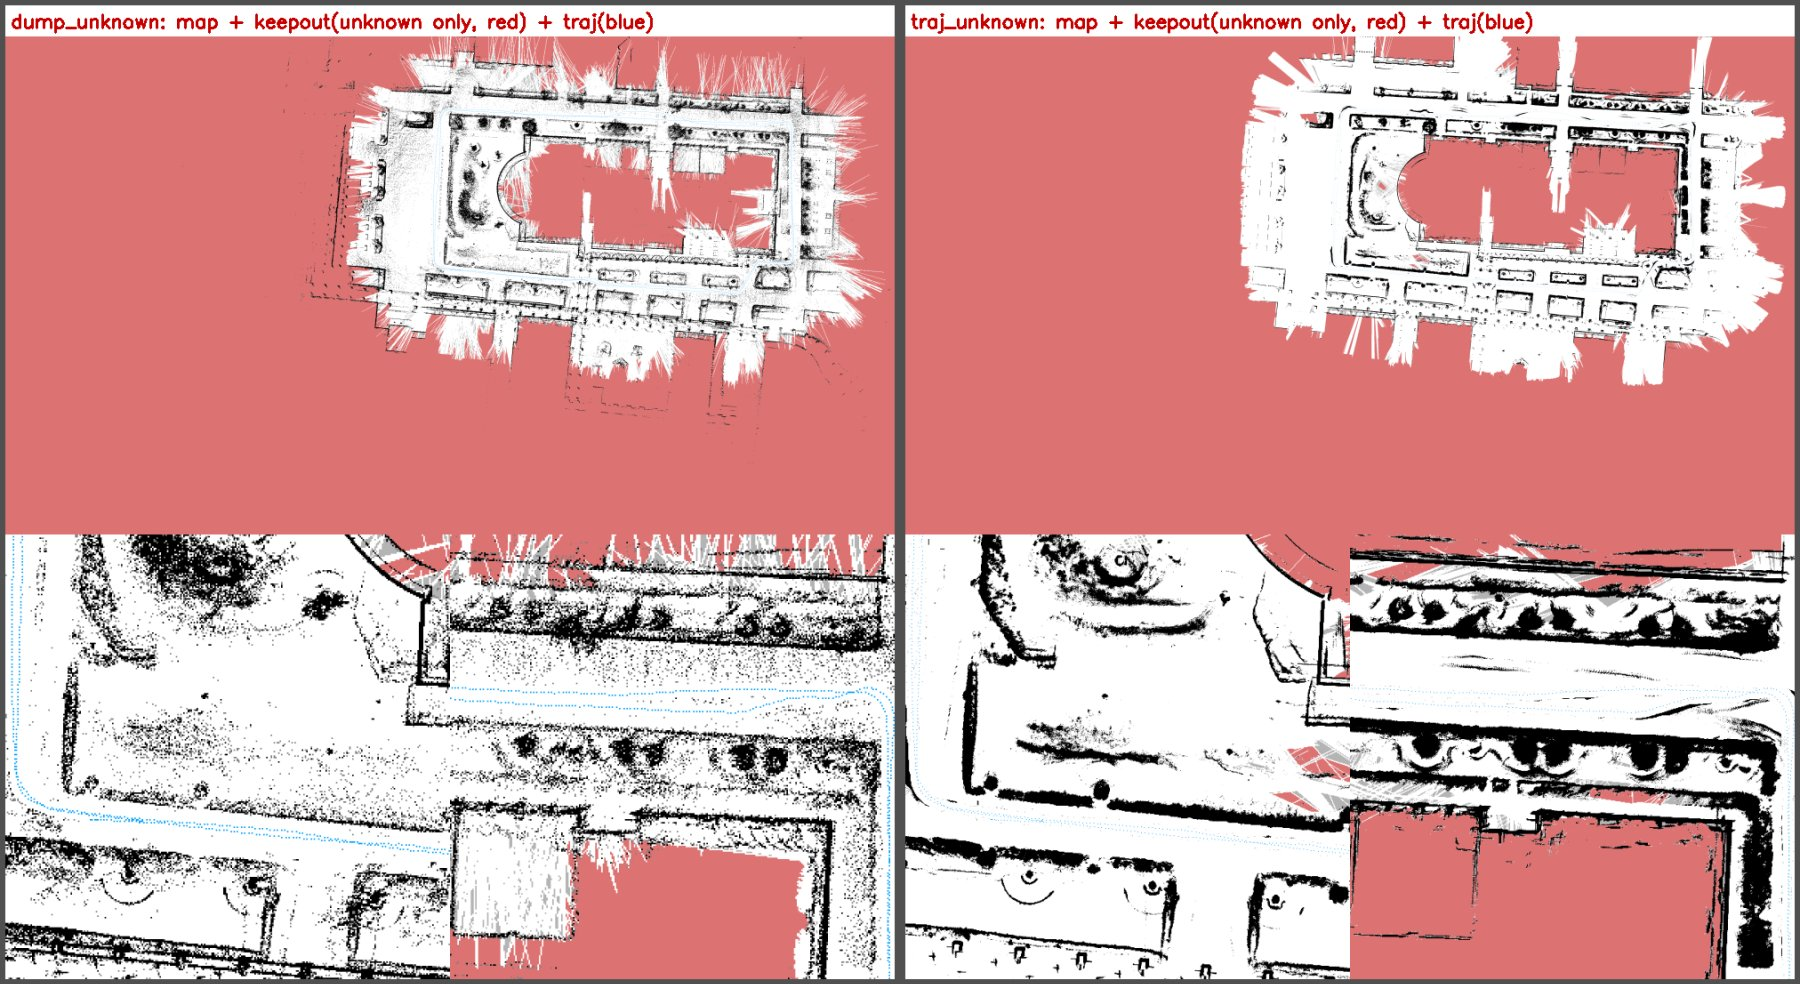
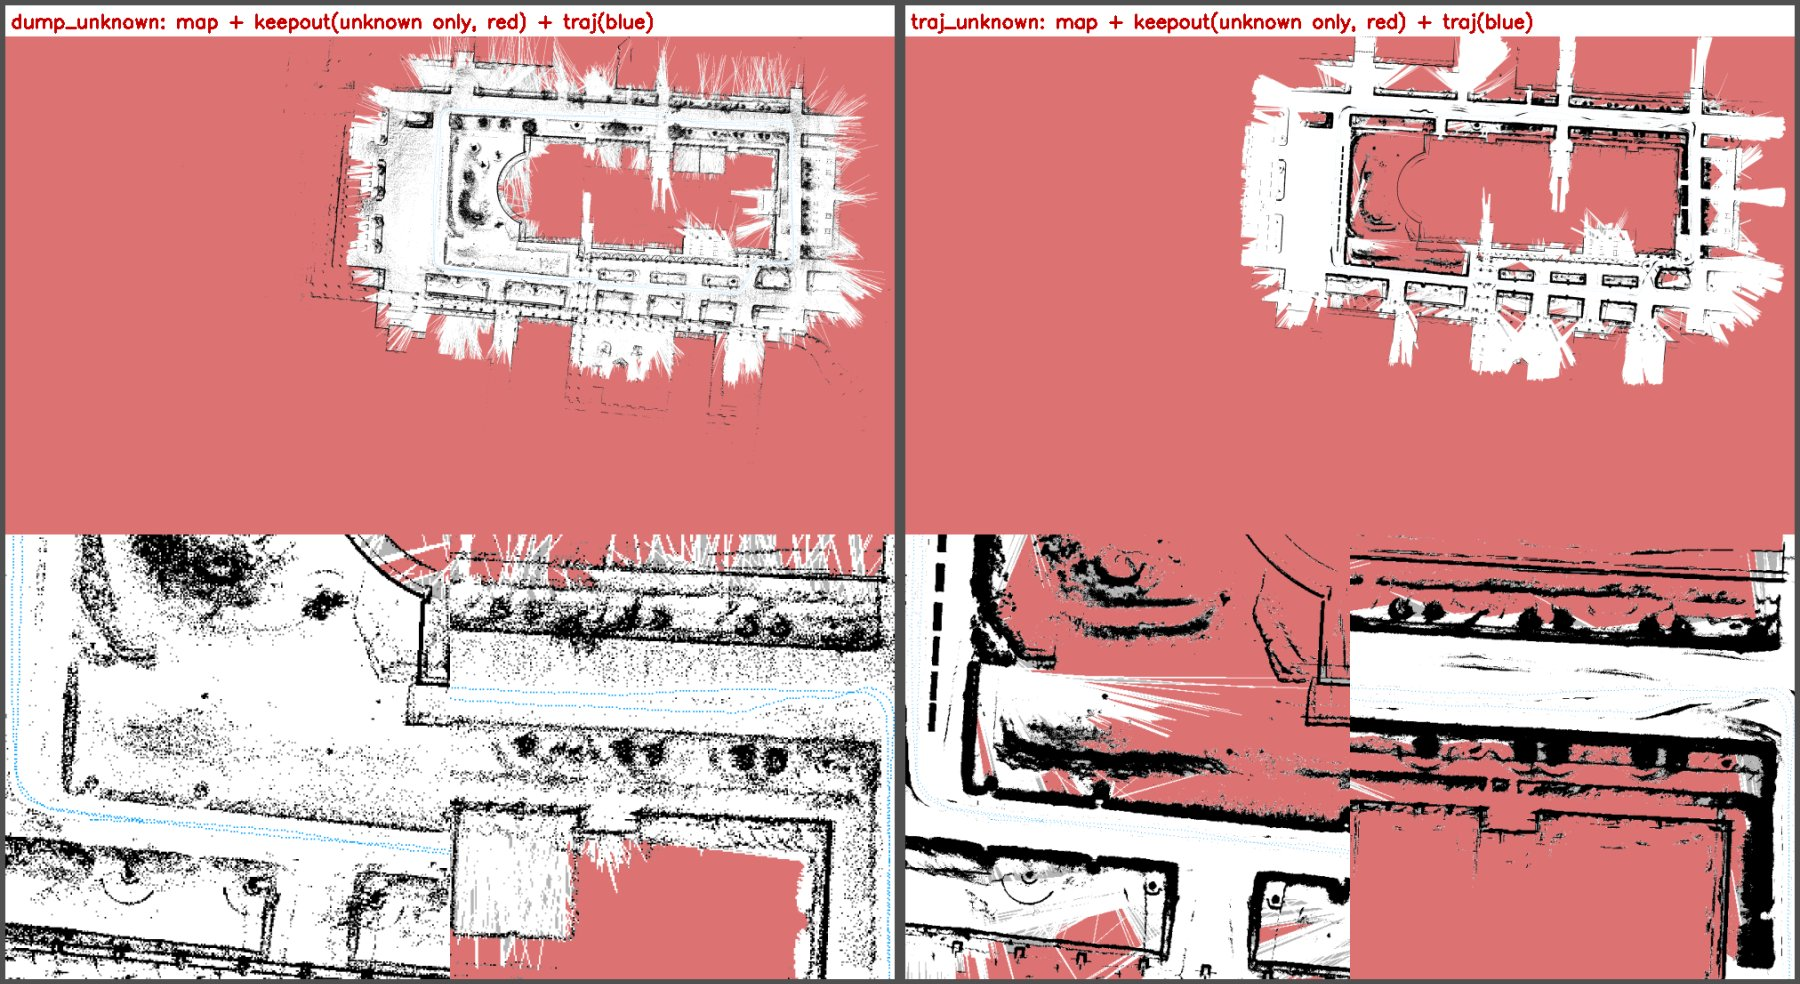
feat: Update documentation and tools for 2D map processing, including base_link height adjustments and keepout generation

Changed region(s): [[0.4978, 0.5183, 0.9956, 1.0], [0.6844, 0.0305, 0.9956, 0.3963], [0.4978, 0.8537, 0.6533, 1.0]]

diff --git a/tools/glim_dump_to_2dmap/glim_dump_to_2dmap.py b/tools/glim_dump_to_2dmap/glim_dump_to_2dmap.py
@@ -45,6 +45,41 @@ def load_viewpoints(dump_dir, idx):
     return np.array([[float(line.split()[3]) for line in b.strip().split("\n")[:3]] for b in blocks])
 
 
+def load_frame_stamps(dump_dir, idx):
+    """claude: 2026-10-02 submap 内の各スキャンの stamp (F,) を返す"""
+    txt = open(os.path.join(dump_dir, f"{idx:06d}", "data.txt")).read()
+    return np.array([float(v) for v in re.findall(r"^stamp:\s*([\d.]+)", txt, re.M)])
+
+
+def load_traj_tum(path):
+    """claude: 2026-10-02 TUM 形式 (stamp x y z qx qy qz qw) → (stamps, R[N,3,3], t[N,3])、stamp 昇順"""
+    a = np.loadtxt(path, ndmin=2)
+    a = a[np.argsort(a[:, 0])]
+    x, y, z, w = a[:, 4], a[:, 5], a[:, 6], a[:, 7]
+    R = np.empty((len(a), 3, 3))
+    R[:, 0, 0] = 1 - 2 * (y * y + z * z); R[:, 0, 1] = 2 * (x * y - z * w); R[:, 0, 2] = 2 * (x * z + y * w)
+    R[:, 1, 0] = 2 * (x * y + z * w); R[:, 1, 1] = 1 - 2 * (x * x + z * z); R[:, 1, 2] = 2 * (y * z - x * w)
+    R[:, 2, 0] = 2 * (x * z - y * w); R[:, 2, 1] = 2 * (y * z + x * w); R[:, 2, 2] = 1 - 2 * (x * x + y * y)
+    return a[:, 0], R, a[:, 1:4]
+
+
+def base_link_height(w, stamps, traj, h_sensor, tol=0.02):
+    """claude: 2026-10-02 世界座標の点 w (N,3) の base_link 基準の高さを返す。
+    submap 内スキャンの最適化後 LiDAR 姿勢 (traj_lidar.txt を stamp で引く) のうち水平距離で最寄りの
+    ものを選び、点をその LiDAR 座標に戻した z + h_sensor (base_link → LiDAR の高さ、取付 rpy=0 前提)。
+    実機 rfans_scan.launch.py (pointcloud_to_laserscan, target_frame base_link) と同じ基準"""
+    st, R, t = traj
+    k = np.clip(np.searchsorted(st, stamps), 1, len(st) - 1)
+    k = np.where(np.abs(st[k - 1] - stamps) < np.abs(st[k] - stamps), k - 1, k)
+    k = k[np.abs(st[k] - stamps) <= tol]
+    if len(k) == 0:
+        return None
+    pos = t[k]
+    d2 = (w[:, None, 0] - pos[None, :, 0]) ** 2 + (w[:, None, 1] - pos[None, :, 1]) ** 2
+    j = k[np.argmin(d2, axis=1)]
+    return np.einsum("ni,ni->n", w - t[j], R[j][:, :, 2]) + h_sensor
+
+
 def add_free_fan(free, sx, sy, wx, wy, obst, cx, cy, res, rmax, n_bins):
     """claude: 2026-10-02 センサ (sx,sy) から見えた範囲を空きとして free (H,W uint8) に塗る。
     方位を n_bins に分け、各方位で「帯内の点 (障害物) の最近距離」と「全点の最遠距離」の小さい方
@@ -103,8 +138,18 @@ def main():
     ap.add_argument("--map_height", type=int, default=0, help="pixels; 0 = auto fit to points")
     ap.add_argument("--center", choices=["world", "auto"], default="world",
                     help="world: 既製ツール互換 (world 原点中心) / auto: 点群 bbox 中心")
-    ap.add_argument("--height_mode", choices=["sensor", "absolute"], default="sensor",
-                    help="sensor: submap センサ z 基準の相対高さ / absolute: 世界座標 z")
+    ap.add_argument("--height_mode", choices=["sensor", "absolute", "base_link"], default="sensor",
+                    help="sensor: submap 原点 z 基準の相対高さ (LiDAR 高ではない) / absolute: 世界座標 z / "
+                         "base_link: 実機 /scan と同じ車体基準の地上高 (要 --base_to_sensor_z)")
+    # claude: 2026-10-02 base_link モード用
+    ap.add_argument("--base_to_sensor_z", type=float, default=None,
+                    help="base_link → rfans の高さ [m] (URDF rfans_joint z。〜09-30 の bag は 0.80246、10-01 以降 0.79396)")
+    ap.add_argument("--traj", default=None,
+                    help="最適化後 LiDAR 軌跡 (既定 <dump_dir>/traj_lidar.txt)。base_link / --range_max / --mark_unknown の"
+                         "スキャン位置に使う (data.txt の T_world_lidar は最適化前で最大数 m ずれる)")
+    ap.add_argument("--range_max", type=float, default=0.0,
+                    help="submap 内の最寄りスキャン位置から水平にこの距離 [m] を超える点を捨てる (0 = 無制限。"
+                         "実機 rfans_scan / traj ツールに合わせるなら 30)")
     ap.add_argument("--min_height", type=float, default=-0.5)
     ap.add_argument("--max_height", type=float, default=0.7)
     ap.add_argument("--min_points_in_pix", type=int, default=2)
@@ -123,6 +168,19 @@ def main():
     args = ap.parse_args()
 
     ids = list_submaps(args.dump_dir)
+    traj = None
+    n_fallback = 0
+    if args.height_mode == "base_link" and args.base_to_sensor_z is None:
+        raise SystemExit("--height_mode base_link には --base_to_sensor_z が必要 (URDF rfans_joint の z)")
+    if args.height_mode == "base_link" or args.range_max > 0 or args.mark_unknown:
+        # claude: 2026-10-02 スキャン位置は最適化後の traj_lidar.txt から引く
+        tp = args.traj or os.path.join(args.dump_dir, "traj_lidar.txt")
+        if os.path.exists(tp):
+            traj = load_traj_tum(tp)
+        elif args.height_mode == "base_link":
+            raise SystemExit(f"{tp} が無い (base_link モードには最適化後軌跡が必要)")
+        else:
+            print(f"warning: {tp} が無いので data.txt の T_world_lidar (最適化前) をスキャン位置に使う")
     world_pts = []      # スライス帯を通過した点 (地図用)
     all_pts = []        # 全点 (--export_pcd 用)
     views = []          # (視点 (F,3), 全点 xy, 帯内マスク) — --mark_unknown 用
@@ -131,16 +189,42 @@ def main():
         w = pts @ T[:3, :3].T + T[:3, 3]
         if args.export_pcd:
             all_pts.append(w)
-        z_ref = T[2, 3] if args.height_mode == "sensor" else 0.0
-        rel = w[:, 2] - z_ref
+        # submap 内スキャン位置 (traj があれば最適化後、無ければ data.txt)
+        vp = None
+        if traj is not None:
+            stamps = load_frame_stamps(args.dump_dir, i)
+            k = np.clip(np.searchsorted(traj[0], stamps), 1, len(traj[0]) - 1)
+            k = np.where(np.abs(traj[0][k - 1] - stamps) < np.abs(traj[0][k] - stamps), k - 1, k)
+            k = k[np.abs(traj[0][k] - stamps) <= 0.02]
+            if len(k):
+                vp = traj[2][k]
+            else:
+                n_fallback += 1
+        if vp is None and args.height_mode != "base_link":
+            vp = load_viewpoints(args.dump_dir, i)
+            if len(vp) == 0:
+                vp = T[None, :3, 3]
+        if args.height_mode == "base_link":
+            rel = base_link_height(w, stamps, traj, args.base_to_sensor_z) if vp is not None else None
+            if rel is None:  # traj に対応するスキャンが無い submap は捨てる
+                rel = np.full(len(w), np.nan)
+        else:
+            z_ref = T[2, 3] if args.height_mode == "sensor" else 0.0
+            rel = w[:, 2] - z_ref
         keep = (rel >= args.min_height) & (rel <= args.max_height)
+        if args.range_max > 0 and vp is not None:
+            # claude: 2026-10-02 遠方の点を捨てる。30 m 超の点は base_link 高さが距離に比例して持ち上がり
+            # 地面が帯に入る (09-18 5号館: 30 m 以上でノイズ率 31%、未満は 1〜2%)
+            d2 = ((w[:, None, 0] - vp[None, :, 0]) ** 2 + (w[:, None, 1] - vp[None, :, 1]) ** 2).min(axis=1)
+            keep &= d2 <= args.range_max ** 2
         world_pts.append(w[keep, :2])
         if args.mark_unknown:
-            vp = load_viewpoints(args.dump_dir, i)
-            vp = vp[::max(args.view_stride, 1)] if len(vp) else T[None, :3, 3]
-            views.append((vp, w[:, :2].copy(), keep))
+            views.append((vp[::max(args.view_stride, 1)], w[:, :2].copy(), keep))
     sel = np.concatenate(world_pts)
     print(f"submaps: {len(ids)}, points in height band: {len(sel)}")
+    if traj is not None and n_fallback:
+        print(f"warning: {n_fallback} submaps had no matching traj stamps "
+              f"({'skipped' if args.height_mode == 'base_link' else 'used data.txt poses'})")
 
     if args.export_pcd:
         merged = np.concatenate(all_pts)

diff --git a/tools/glim_traj_to_2dmap/glim_traj_to_2dmap.py b/tools/glim_traj_to_2dmap/glim_traj_to_2dmap.py
@@ -170,9 +170,11 @@ def main():
     ap.add_argument("--map_height", type=int, default=0)
     ap.add_argument("--center", choices=["world", "auto"], default="world",
                     help="world: 既製ツール互換 (world 原点中心) / auto: 軌跡 bbox 中心")
-    ap.add_argument("--height_frame", choices=["sensor", "world", "ground"], default="sensor",
-                    help="sensor: センサ座標の z で切る (実機 /scan と同じ) / world: 世界 z − 姿勢 z で切る / "
-                         "ground: スキャンごとに近傍点へ地面平面を当て、その平面からの高さで切る (min/max_height は地上高)")
+    ap.add_argument("--height_frame", choices=["sensor", "world", "ground", "base_link"], default="sensor",
+                    help="sensor: センサ座標 z / world: 世界 z − 姿勢 z / ground: スキャンごとの地面平面からの高さ / "
+                         "base_link: センサ座標 z + --base_to_sensor_z (実機 rfans_scan.launch.py と同じ車体基準。2026-10-02 追加)")
+    ap.add_argument("--base_to_sensor_z", type=float, default=None,
+                    help="base_link → rfans の高さ [m] (URDF rfans_joint z。〜09-30 の bag は 0.80246、10-01 以降 0.79396)。取付 rpy=0 前提")
     ap.add_argument("--ground_z", type=float, default=None,
                     help="ground モードの地面探索の初期値 (センサ座標の床 z)。省略時は先頭 50 スキャンの最頻値から自動推定")
     ap.add_argument("--ground_range", type=float, default=12.0, help="ground モードで平面当てに使う水平距離 [m]")
@@ -198,6 +200,8 @@ def main():
     ap.add_argument("--save_free", default=None, help="空き (観測済み) 画素マスク (.npy, uint8) を保存する")
     args = ap.parse_args()
 
+    if args.height_frame == "base_link" and args.base_to_sensor_z is None:
+        raise SystemExit("--height_frame base_link には --base_to_sensor_z が必要 (URDF rfans_joint の z)")
     traj_path = args.traj
     if os.path.isdir(traj_path):
         traj_path = os.path.join(traj_path, "traj_lidar.txt")
@@ -279,8 +283,10 @@ def main():
                 w = quat_rotate(qi, p) + t[k][None, :] + u[:, None] * (t[k + 1] - t[k])[None, :]
             else:
                 w = p @ R[k].T + t[k]
-        elif args.height_frame == "sensor":
-            keep = (p[:, 2] >= args.min_height) & (p[:, 2] <= args.max_height)
+        elif args.height_frame in ("sensor", "base_link"):
+            # claude: 2026-10-02 base_link = センサ z + 取付高 (取付 rpy=0 なので z の平行移動だけ)
+            zb = p[:, 2] + (args.base_to_sensor_z if args.height_frame == "base_link" else 0.0)
+            keep = (zb >= args.min_height) & (zb <= args.max_height)
             p = p[keep]
             if args.deskew and "time" in a.dtype.names and k + 1 < len(st):
                 tt = a["time"][ok][keep].astype(np.float64)

diff --git a/tools/README.md b/tools/README.md
@@ -47,6 +47,20 @@ docker exec glim_env python3 /workspace/tools/glim_dump_to_2dmap/glim_dump_to_2d
   --height_mode sensor --min_height -0.25 --max_height 0.95
 ```
 
+- `--height_mode base_link --base_to_sensor_z <URDF rfans_joint z> --min_height 0.3 --max_height 1.5`
+  (2026-10-02 追加) で**実機 /scan (`rfans_scan.launch.py`, target_frame base_link) と同じ基準・同じ値**で切れる。
+  submap 内スキャンの stamp で `traj_lidar.txt` (最適化後 LiDAR 姿勢) を引き、各点を水平最寄りのスキャンの
+  LiDAR 座標へ戻して z + 取付高を高さとする (取付 rpy=0 前提)。取付高は 〜09-30 の bag 0.80246 / 10-01 以降 0.79396。
+  09-18 5号館で床 (base_link 基準) は中央値 +0.015 m を確認
+- `--range_max 30` (2026-10-02 追加、既定 0 = 無制限): submap 内の最寄りスキャン位置から水平 30 m を超える点を捨てる
+  (実機 rfans_scan・traj ツールと同じ)。base_link 基準では遠方の地面が距離に比例して持ち上がって帯に入る
+  (09-18: 10〜20 m で +0.30 m、40〜60 m で +1.55 m。原因は未特定 — 車体ピッチ / R-Fans 縦角誤差 / GLIM 姿勢 /
+  最寄りスキャン近似) ので、base_link では付けるのが前提。30 m 以上の点のノイズ率は 31%、未満は 1〜2%
+- スキャン位置 (base_link / `--range_max` / `--mark_unknown` の視点) は `traj_lidar.txt` (最適化後) を stamp で引く。
+  data.txt の `T_world_lidar` は最適化前で、09-18 では水平に中央値 1.7 m・最大 6.1 m ずれる (traj が無い dump では警告して data.txt を使う)
+- ⚠ sensor 帯の基準は **submap 原点 (`T_world_origin`) の z** で、LiDAR の高さとは一致しない
+  (2026-10-02 実測: 09-18 5号館 dump で床は原点基準 中央値 −0.65 m、submap ごとに ±0.2 m ばらつく。
+  同じ bag の traj ツール (LiDAR 基準) の床は −0.81 m)。帯を地上高で決めるときは dump の点で床を測る
 - `--center world` (既定) で既製ツールと同じ world (0,0) 中心。`--center auto` は
   点群 bbox 中心 + サイズ自動決定 (既製ツールの「原点中心固定で巨大地図になる」制約の回避)
 - `--export_pcd <path>` で全点マージの世界座標 PCD も書ける (既製ツールとの比較・
@@ -111,7 +125,7 @@ python3 $T $B $D /workspace/maps/2d/glim/<name>/nav2 \
 |---|---|---|
 | `bag_dir` / `traj` / `dest_dir` | — | bag ディレクトリ / `traj_lidar.txt` か dump ディレクトリ / 出力先 |
 | `--topic` | `/rfans_driver/rfans_points` | PointCloud2 トピック |
-| `--height_frame` | sensor | sensor = センサ座標 z で切る (実機 /scan と同じ) / world = 世界 z − 姿勢 z (glim_dump_to_2dmap の sensor と同じ意味) |
+| `--height_frame` | sensor | sensor = センサ座標 z で切る (値は LiDAR 基準。実機と同じ値で書くなら base_link) / world = 世界 z − 姿勢 z (glim_dump_to_2dmap の sensor と同じ意味) / base_link = センサ z + `--base_to_sensor_z` (実機 /scan と同じ基準。2026-10-02 追加) |
 | `--min/max_height` | −0.45 / +0.75 | スライス帯。`--floor_probe` の出力 (床 +0.3〜+1.5) で決める |
 | `--range_min/max` | 0.5 / 40 | この範囲外の点を捨てる (車体・無効点・遠方ノイズ) |
 | `-r`, `--map_width/height`, `--center`, `--min/max_points_in_pix` | 0.05, 0 (自動), world, 2/5 | glim_dump_to_2dmap と同じ画素系・濃度変換 |

diff --git a/docs/manual/12_challenge_day.md b/docs/manual/12_challenge_day.md
@@ -95,6 +95,7 @@ git checkout <hash> -- glim/<name>/nav2/my_map.pgm   # 任意の版に戻す
   コンテナが書いたファイルは root 所有なので、ホストで編集する前に一度 `sudo chown -R $USER:$USER maps/2d/glim`
 * 地図の手直し (任意): `my_map.pgm` を画像エディタで開き、歩行者・車などの動体を白 (自由) に、走らせたくない場所を黒 (占有) に塗る。サイズ・解像度・origin は変えない
 * keepout マスク (任意、未整備): `my_map.pgm` を `<map_dir>/keep_out/keep_out.pgm` にコピーして進入禁止帯を黒で塗り、yaml も `keep_out.yaml` としてコピー (`image:` を書き換え)。使わないなら 6 で `use_keepout:=false`
+  * <!-- claude: 2026-10-02 追記 (ユーザ依頼) --> 未観測域の自動 keepout + 走路の操作者跡の除去は `tools/map_to_keepout` ([第9章 9.3](09_map2d_compression.md))。芝生などは出来たマスクに描き足す
 
 ## 6. Nav2,slamtoolbox反映
 * GLIM 由来 (3D) 地図: 5 のディレクトリを `map_dir:=` で渡す (7 参照)。amcl の入力スキャンは 2D LiDAR ではなく `rfans_scan.launch.py` で作る (当日は全点版 `/scan_all`。[第14章](14_pointcloud_to_laserscan.md))
